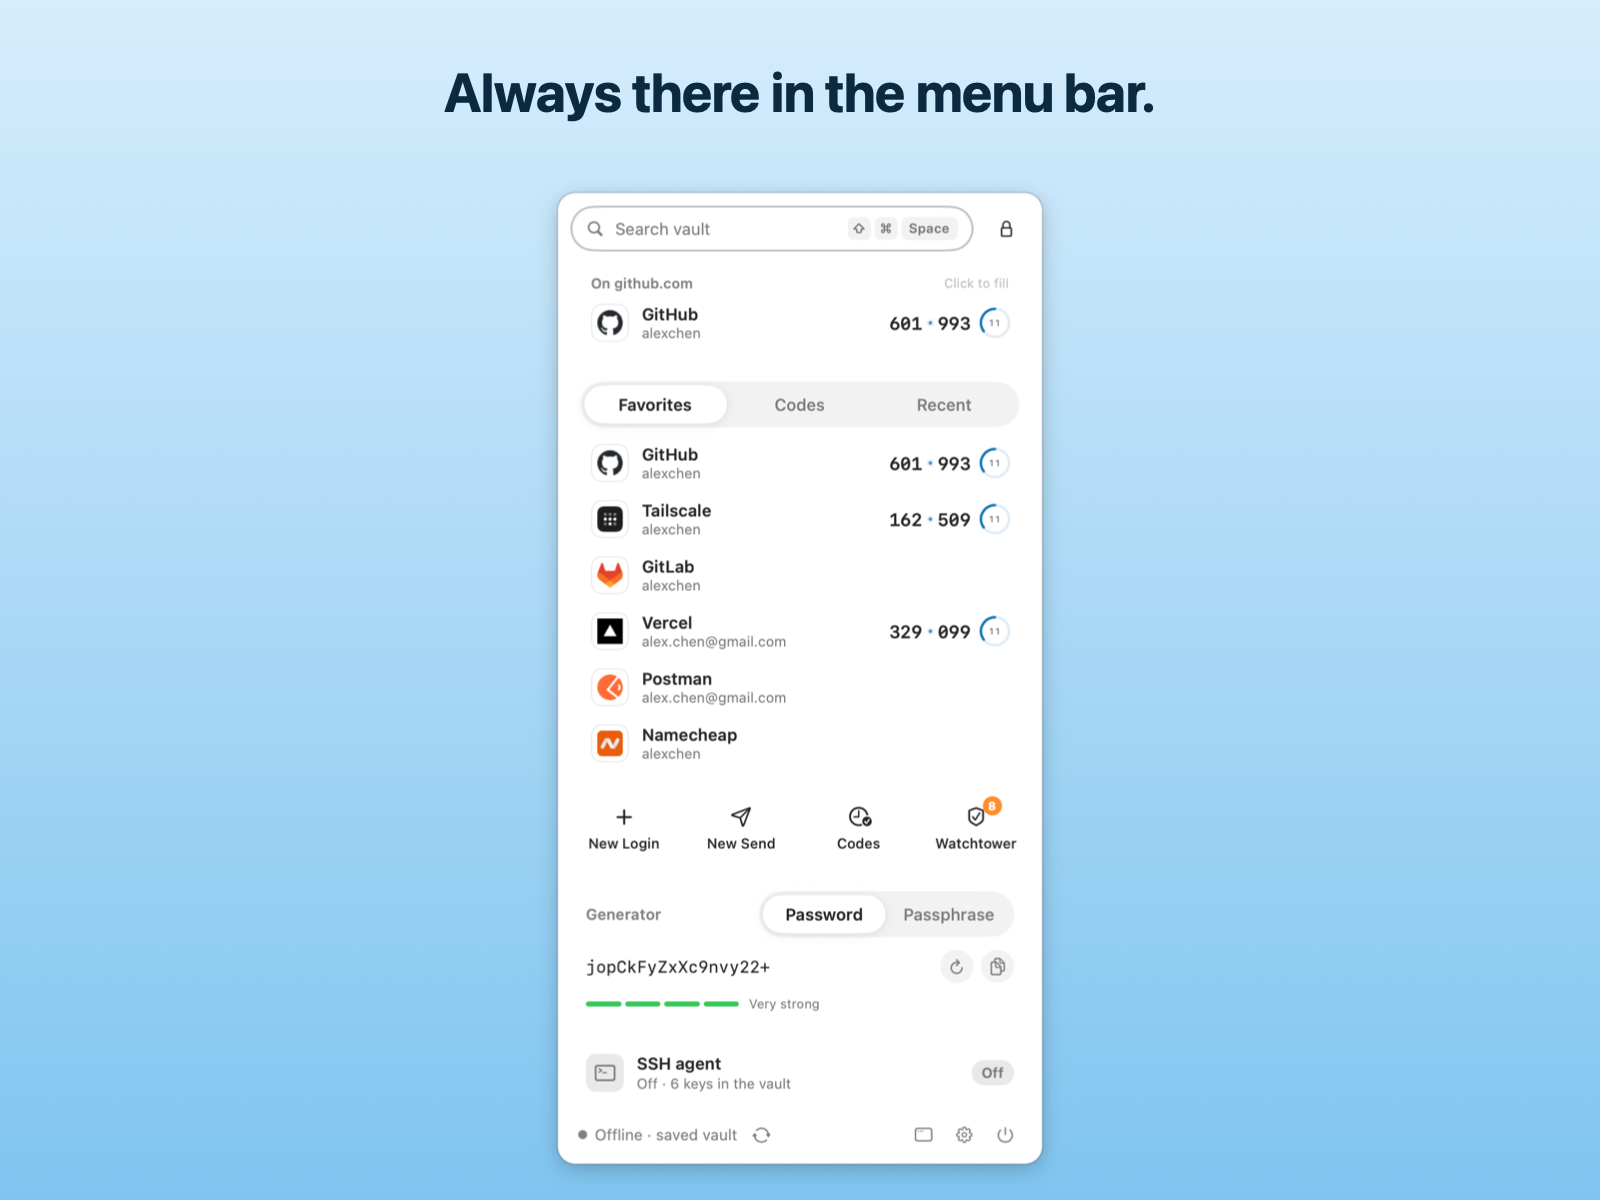
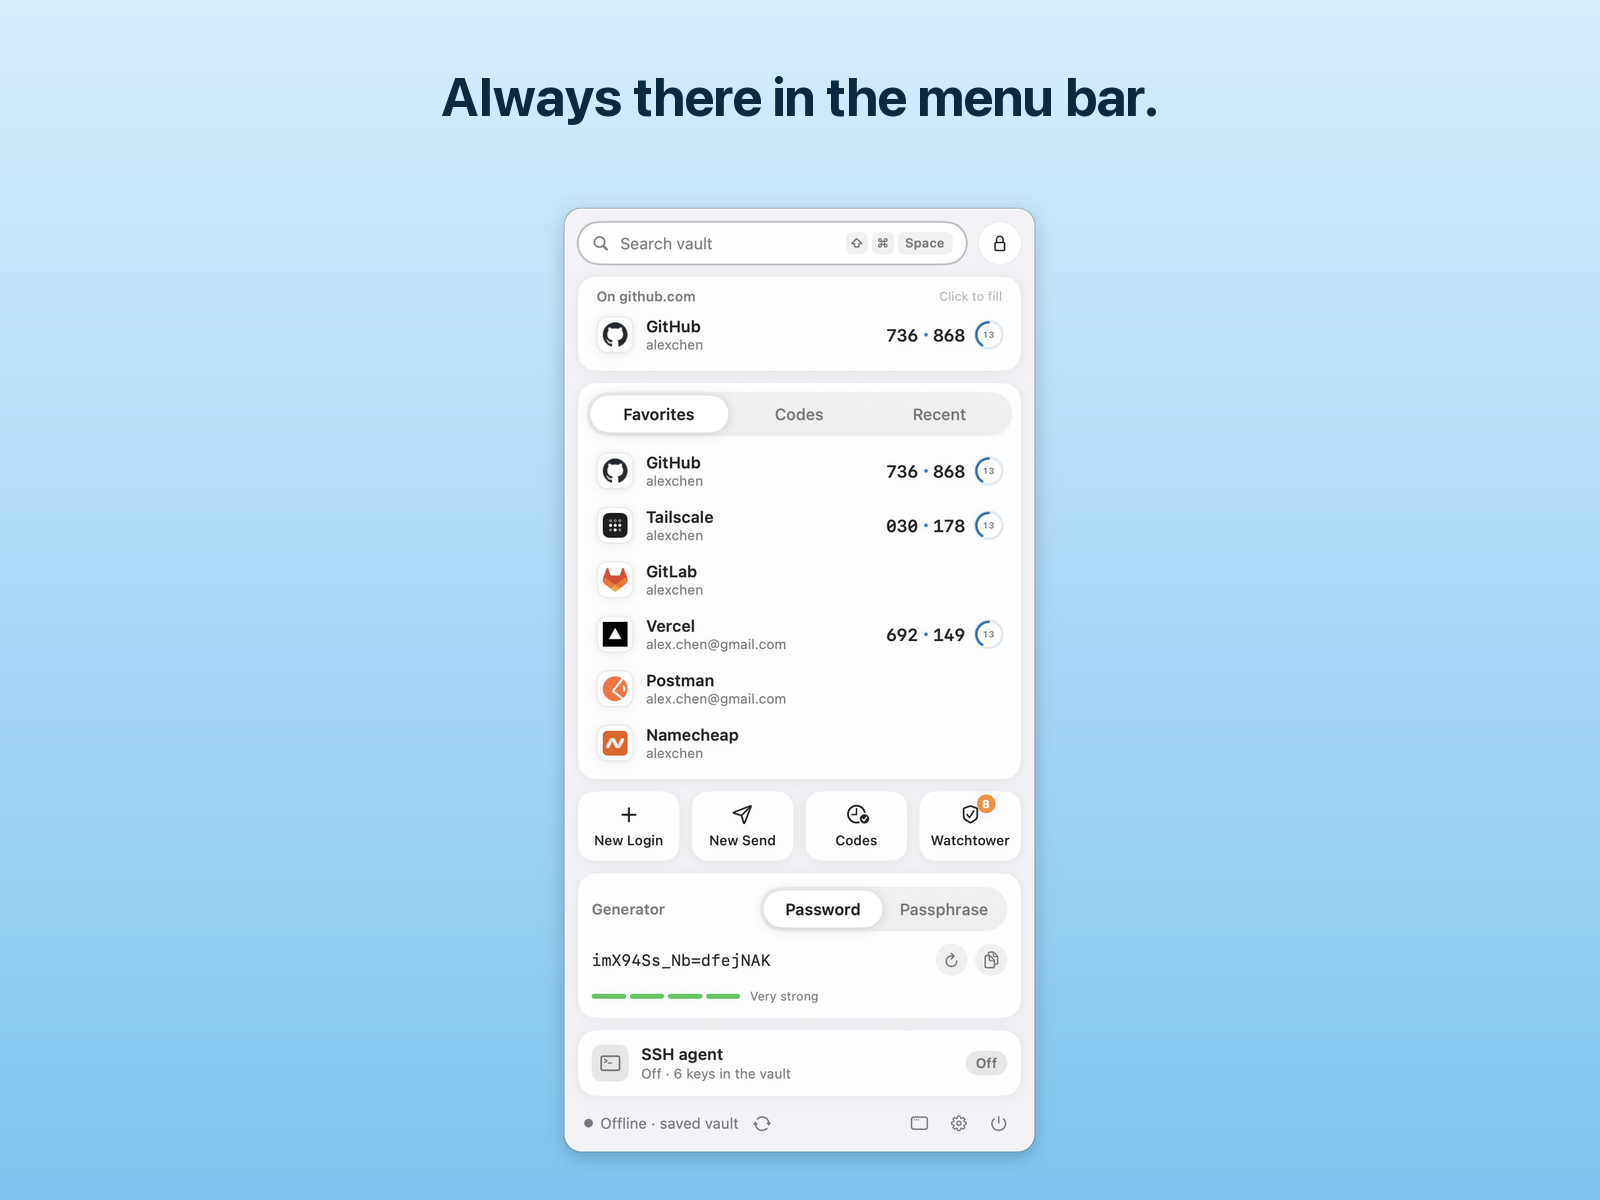
Fresh README and store screenshots; make screenshots regenerates them
- make screenshots (scripts/screenshots.py): runs the demo vault's screenshot pass in light and dark, each
  started just after a code period begins (full rings, not the orange last seconds), then writes the README's
  docs/images/*.jpg and composes the 1600×1200 store / promotion images in Design/Store (gradient, headline,
  window), so they can follow the UI from now on.
- All of them retaken with the current UI (Vaults section, Manage, codes tags and favorites, the floating Sync /
  Lock pill, the light menu bar panel). New: search-light / search-dark, "One search across every vault."

diff --git a/scripts/screenshots.py b/scripts/screenshots.py
@@ -1,0 +1,128 @@
+#!/usr/bin/env python3
+"""README screenshots (docs/images) and store / promotion images (Design/Store) from the demo vault.
+
+`make screenshots` runs `Triwarden --demo-full --shoot` in light and dark (each started just after a one-time
+code period begins, so codes show full rings, not the orange last seconds), then:
+
+  • docs/images/*.jpg     the README's pictures, cropped to the window, at the sizes the README lays out
+  • Design/Store/*.png    1600×1200 promotion images: a headline over a soft gradient, the window below it
+
+Needs Pillow (`pip3 install pillow`) and the app built (`make build`).
+"""
+import os
+import shutil
+import subprocess
+import sys
+import time
+
+from PIL import Image, ImageDraw, ImageFont
+
+ROOT = os.path.dirname(os.path.dirname(os.path.abspath(__file__)))
+APP = os.path.join(ROOT, "build/Build/Products/Debug/Triwarden.app/Contents/MacOS/Triwarden")
+SHOTS = os.path.expanduser("~/Library/Containers/io.github.sinhong2011.triwarden/Data/tmp/demo-shots")
+WORK = os.path.join(ROOT, "build/screenshots")
+
+# Promotion images: the shot, and its headline.
+STORE = {
+    "vault": "Every login, card and passkey. Native on your Mac.",
+    "search": "One search across every vault.",
+    "codes": "Every one-time code, one click away.",
+    "palette": "Press ⌘K. Find it, copy it, done.",
+    "menubar": "Always there in the menu bar.",
+    "watchtower": "Finds weak, reused and breached passwords.",
+    "generator": "Strong passwords, passphrases and usernames.",
+    "locked": "Locked tight. Only you hold the key.",
+    "signin": "Your Vaultwarden, or Bitwarden. Signed in once.",
+}
+# README pictures: (shot, file, width). Light unless the shot name says dark.
+README = [
+    ("vault-light", "vault-light", 1640),
+    ("vault-dark", "vault-dark", 1200),
+    ("search-light", "search", 1200),
+    ("menubar-light", "menubar", 380),
+    ("codes-light", "codes", 1200),
+    ("watchtower-light", "watchtower", 1200),
+    ("generator-light", "generator", 1200),
+    ("palette-light", "palette", 1200),
+    ("signin-light", "signin", 1200),
+]
+GRADIENT = {"light": ((214, 237, 253), (128, 197, 240)), "dark": ((18, 41, 61), (8, 18, 29))}
+INK = {"light": (11, 42, 64), "dark": (255, 255, 255)}
+
+
+def shoot(scheme):
+    """One pass of the app's screenshot run, started just after a code period begins."""
+    subprocess.run(["pkill", "-f", "Triwarden.app/Contents/MacOS/Triwarden --demo"], check=False)
+    time.sleep(1)
+    time.sleep((30 - time.time() % 30) % 30 + 0.5)
+    out = subprocess.run([APP, "--demo-full", "--shoot", "-appearance", scheme], capture_output=True, text=True, timeout=240)
+    print(out.stdout.strip().splitlines()[-1] if out.stdout.strip() else out.stderr[-400:])
+    os.makedirs(WORK, exist_ok=True)
+    for name in os.listdir(SHOTS):
+        if name.endswith(f"-{scheme}.png"):
+            shutil.copy(os.path.join(SHOTS, name), os.path.join(WORK, name))
+
+
+def window_only(image, dark):
+    """The window without its shadow, on an opaque background (JPEG has no transparency)."""
+    image = image.convert("RGBA")
+    box = image.split()[3].point(lambda v: 255 if v >= 250 else 0).getbbox()
+    image = image.crop(box)
+    base = Image.new("RGBA", image.size, (30, 30, 32, 255) if dark else (255, 255, 255, 255))
+    base.alpha_composite(image)
+    return base.convert("RGB")
+
+
+def readme():
+    for shot, name, width in README:
+        path = os.path.join(WORK, shot + ".png")
+        if not os.path.exists(path):
+            print("missing", shot); continue
+        image = window_only(Image.open(path), "dark" in shot)
+        image = image.resize((width, round(image.height * width / image.width)), Image.LANCZOS)
+        image.save(os.path.join(ROOT, "docs/images", name + ".jpg"), quality=88)
+        print("docs/images/%s.jpg" % name, image.size)
+
+
+def headline_font(size):
+    font = ImageFont.truetype("/System/Library/Fonts/SFNS.ttf", size)
+    font.set_variation_by_name("Bold")
+    return font
+
+
+def store(scheme):
+    top, bottom = GRADIENT[scheme]
+    for name, headline in STORE.items():
+        path = os.path.join(WORK, f"{name}-{scheme}.png")
+        if not os.path.exists(path):
+            print("missing", name, scheme); continue
+        canvas = Image.new("RGBA", (1600, 1200))
+        draw = ImageDraw.Draw(canvas)
+        for y in range(1200):
+            t = y / 1199
+            draw.line([(0, y), (1600, y)], fill=tuple(round(a + (b - a) * t) for a, b in zip(top, bottom)) + (255,))
+        # The headline: bold, centred, no wider than the canvas allows.
+        size = 54  # the original images: about 1200 px wide for the longest headline
+        font = headline_font(size)
+        while draw.textlength(headline, font=font) > 1300:
+            size -= 2
+            font = headline_font(size)
+        draw.text((800, 95), headline, font=font, fill=INK[scheme], anchor="mm")
+        # The window (with its own shadow), as large as fits under the headline.
+        shot = Image.open(path).convert("RGBA")
+        scale = min(1300 / shot.width, 1000 / shot.height)
+        shot = shot.resize((round(shot.width * scale), round(shot.height * scale)), Image.LANCZOS)
+        canvas.alpha_composite(shot, ((1600 - shot.width) // 2, 185))
+        canvas.convert("RGB").save(os.path.join(ROOT, "Design/Store", f"{name}-{scheme}.png"))
+        print("Design/Store/%s-%s.png" % (name, scheme))
+
+
+if __name__ == "__main__":
+    if not os.path.exists(APP):
+        sys.exit("Build the app first: make build")
+    if "--no-shoot" not in sys.argv:
+        for scheme in ("light", "dark"):
+            shoot(scheme)
+    readme()
+    for scheme in ("light", "dark"):
+        store(scheme)
